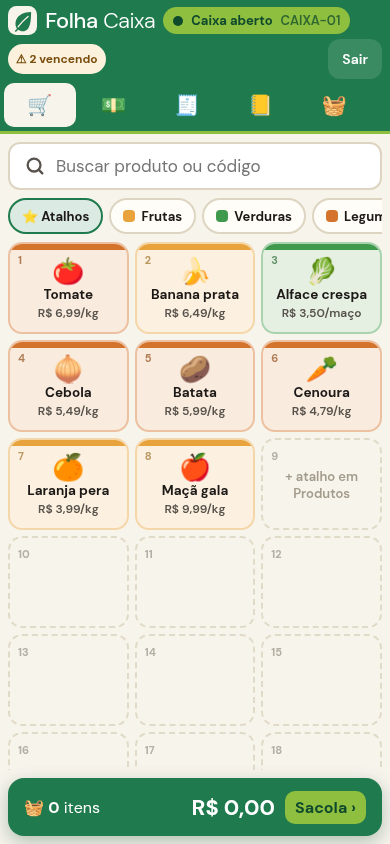
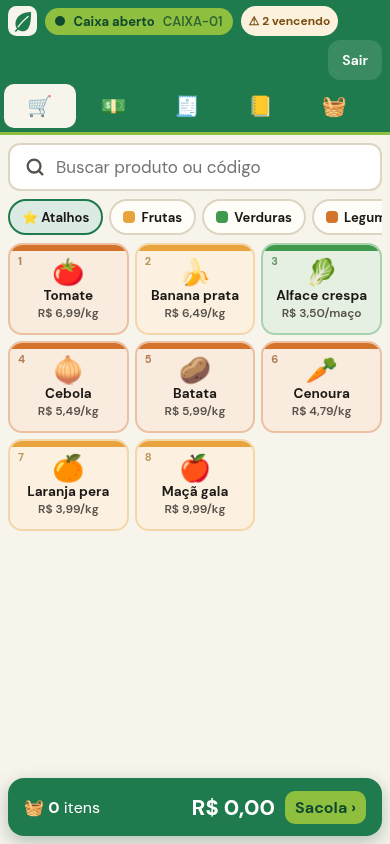
Online: sem retries do PostgREST offline, cabeçalho compacto no celular, QA espera produtos do cache

diff --git a/web/src/components/Header.tsx b/web/src/components/Header.tsx
@@ -20,9 +20,9 @@ export function Header() {
       <div className="store" title={status?.store?.name}>{status?.store?.name ?? '…'}</div>
       <span className={`status-pill ${open ? 'aberto' : 'fechado'}`} title={open ? `Aberto por ${open.opened_by_name}` : 'Caixa fechado'}
         onClick={() => go('caixa')} style={{ cursor: 'pointer' }}>
-        <span className="dot" />{open ? 'Caixa aberto' : 'Caixa fechado'} <span style={{ opacity: .75, fontWeight: 600 }}>{getTerminal()}</span>
+        <span className="dot" />{open ? 'Caixa aberto' : 'Caixa fechado'} <span className="term" style={{ opacity: .75, fontWeight: 600 }}>{getTerminal()}</span>
       </span>
-      {alerts > 0 && <button className="alert-badge" onClick={() => go('estoque/vencendo')} title="Itens vencendo">⚠ {alerts} vencendo</button>}
+      {alerts > 0 && <button className="alert-badge" onClick={() => go('estoque/vencendo')} title="Itens vencendo">⚠ {alerts}<span className="tx"> vencendo</span></button>}
       <nav className="nav">
         {NAV.filter((n) => !n[3] || (user && n[3].includes(user.role))).map(([r, ic, tx]) => (
           <button key={r} className={route.split('/')[0] === r ? 'on' : ''} onClick={() => go(r)} title={tx}>

diff --git a/web/src/backend/client.ts b/web/src/backend/client.ts
@@ -5,6 +5,10 @@ const KEY = import.meta.env.VITE_SUPABASE_KEY as string; // chave pública (publ
 
 let _sb: SupabaseClient | null = null;
 export function sb(): SupabaseClient {
-  if (!_sb) _sb = createClient(URL, KEY, { auth: { persistSession: true, autoRefreshToken: true, storageKey: 'folha.sb.auth' } });
+  if (!_sb) _sb = createClient(URL, KEY, {
+    auth: { persistSession: true, autoRefreshToken: true, storageKey: 'folha.sb.auth' },
+    // sem novas tentativas automáticas: sem rede, o app cai logo no cache/fila em vez de esperar ~7 s
+    db: { retry: false } as any,
+  });
   return _sb;
 }

diff --git a/web/src/styles.css b/web/src/styles.css
@@ -327,4 +327,5 @@ body.print-80mm { }
   .tiles:not(.scroll) .tile.empty { display: none; }
   .scale .hint, .scale .btn .key, .modal-f .key, .methods button .small { display: none; }
   .toast { top: 8px; bottom: auto; }
+  .status-pill .term, .alert-badge .tx { display: none; }
 }
